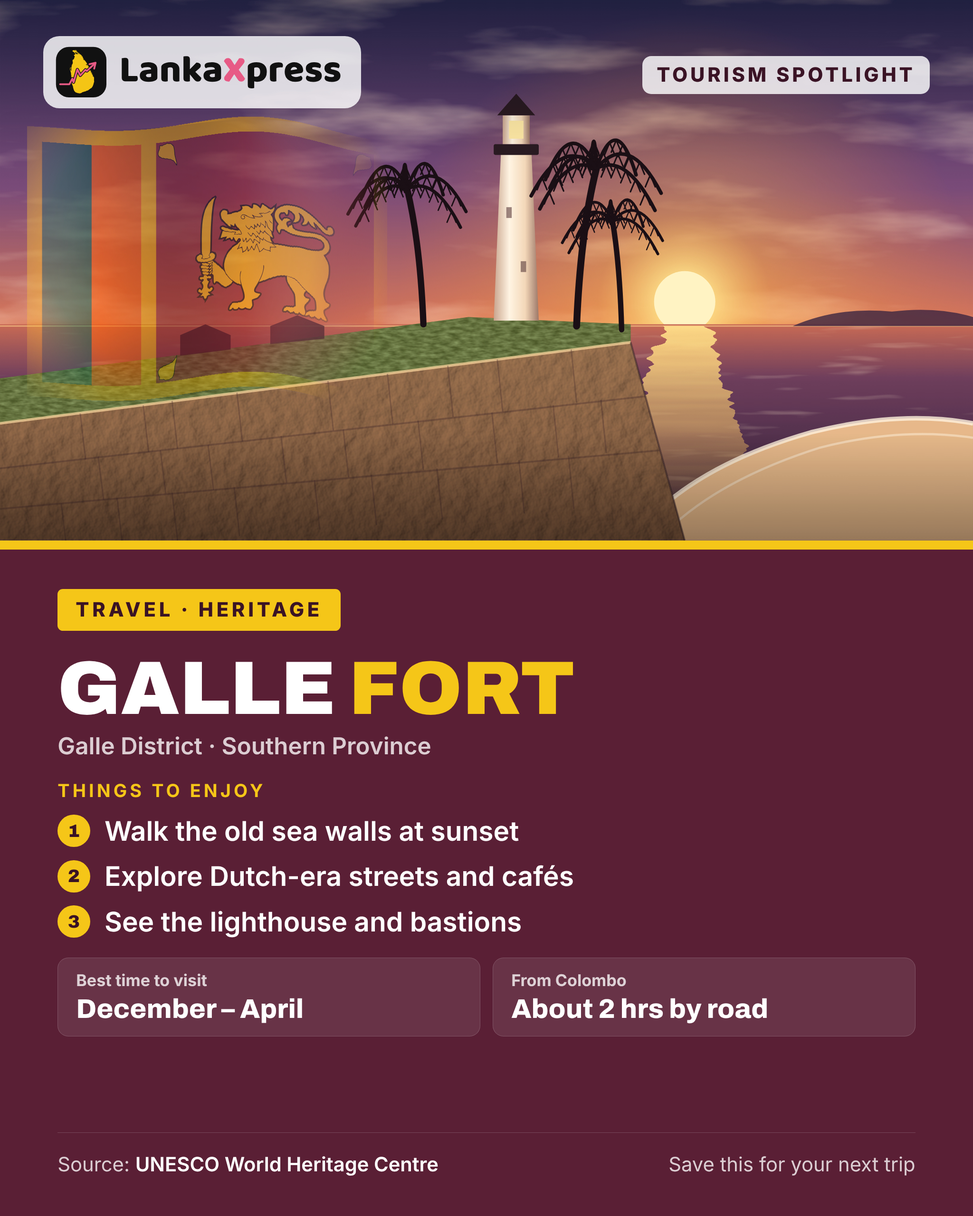
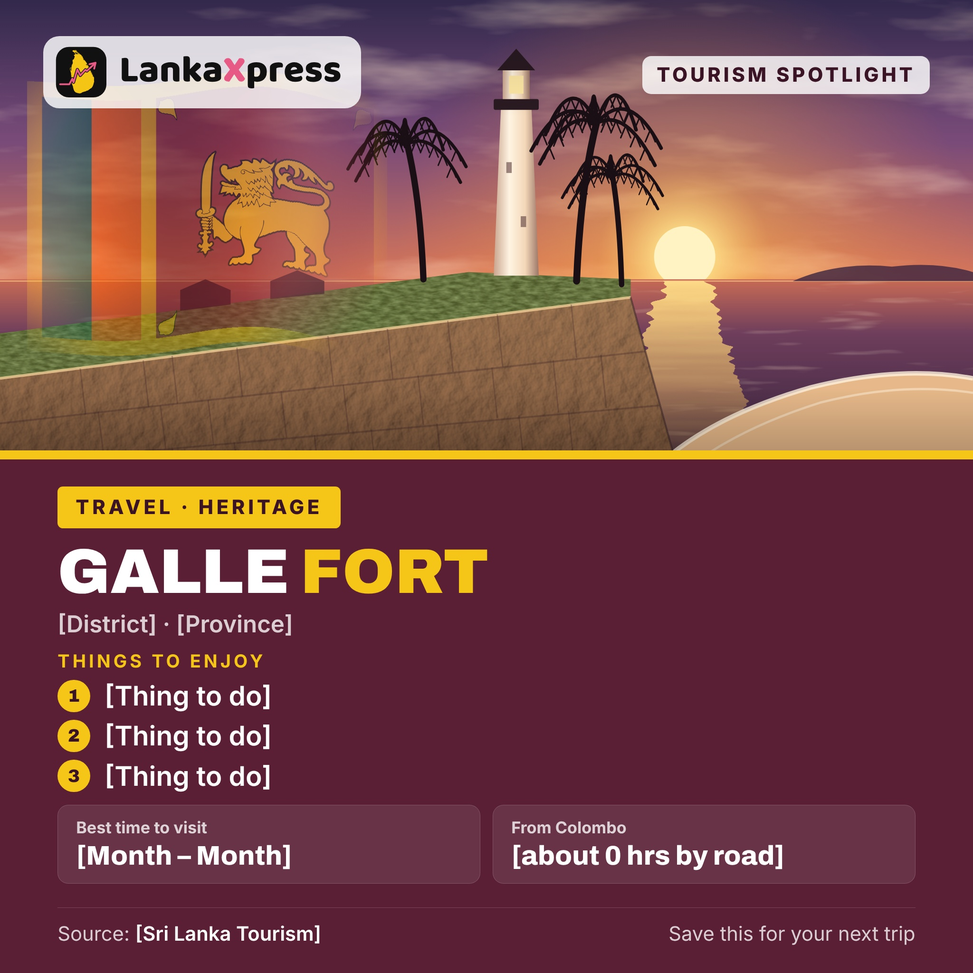
Square 1080x1080 templates: tourism v3 (picture 500px) and US results
Claude-Session: https://claude.ai/code/session_01VaiwC8zkTmVbXbNyuV3YEZ

diff --git a/templates/Card-USResults.html b/templates/Card-USResults.html
@@ -1,7 +1,7 @@
 <!doctype html><html><head><meta charset="utf-8"><style>@font-face{font-family:Archivo;src:url(archivo-latin-800-normal.woff2);font-weight:800}@font-face{font-family:Archivo;src:url(archivo-latin-900-normal.woff2);font-weight:900}body{margin:0}</style></head><body>
-<div style="width:1080px;height:1350px;background:#111111;font-family:Inter,sans-serif;color:#fff;position:relative;overflow:hidden">
-<div style="position:absolute;top:0;left:0;width:1080px;height:720px;overflow:hidden">
-<svg width="1080" height="720" viewBox="0 -160 1080 720" style="position:absolute;top:0;left:0">
+<div style="width:1080px;height:1080px;background:#111111;font-family:Inter,sans-serif;color:#fff;position:relative;overflow:hidden">
+<div style="position:absolute;top:0;left:0;width:1080px;height:500px;overflow:hidden">
+<svg width="1080" height="500" viewBox="0 -160 1080 720" preserveAspectRatio="xMidYMax slice" style="position:absolute;top:0;left:0">
 <defs><linearGradient id="sk" x1="0" y1="0" x2="0" y2="1"><stop offset="0" stop-color="#0B1026"/><stop offset=".6" stop-color="#1B2348"/><stop offset="1" stop-color="#3A2A4A"/></linearGradient>
 <linearGradient id="dm" x1="0" y1="0" x2="1" y2="0"><stop offset="0" stop-color="#EDE3D6"/><stop offset=".5" stop-color="#FFF8EE"/><stop offset="1" stop-color="#BFB3A6"/></linearGradient>
 <linearGradient id="lb" x1="0" y1="0" x2="1" y2="0"><stop offset="0" stop-color="#2563EB" stop-opacity=".75"/><stop offset=".5" stop-color="#2563EB" stop-opacity="0"/></linearGradient>
@@ -24,24 +24,24 @@
 </g>
 <circle cx="240" cy="210" r="260" fill="url(#glw)"/>
 <rect width="1080" height="560" fill="url(#fade)"/></svg>
-<div style="position:absolute;left:50px;top:190px;width:350px;height:350px;border-radius:50%;overflow:hidden;border:10px solid #3B82F6;box-shadow:0 0 0 6px #F5C518,0 0 60px rgba(253,230,138,.8)"><img src="img/jeffries.jpg" style="width:100%;height:100%;object-fit:cover;object-position:50% 18%"></div>
-<div style="position:absolute;left:170px;top:100px;font-family:'Noto Color Emoji';font-size:100px;transform:rotate(-10deg)">👑</div>
-<div style="position:absolute;left:690px;top:210px;width:330px;height:330px;border-radius:50%;overflow:hidden;border:10px solid #B91C1C;filter:grayscale(.55) brightness(.72)"><img src="img/trump.jpg" style="width:100%;height:100%;object-fit:cover;object-position:50% 12%"></div>
-<div style="position:absolute;left:112px;top:530px;background:#F5C518;color:#111;font-family:Archivo,sans-serif;font-weight:900;font-size:28px;letter-spacing:.08em;padding:8px 22px;border-radius:8px;transform:rotate(-3deg);box-shadow:0 6px 18px rgba(0,0,0,.4)">LEADING ✓</div>
-<div style="position:absolute;left:40px;width:370px;top:605px;text-align:center"><div style="font-family:Archivo,sans-serif;font-weight:900;font-size:30px;letter-spacing:.04em">HAKEEM JEFFRIES</div><div style="font-size:19px;color:#93C5FD;margin-top:2px">Democrats · Opposition leader</div></div>
-<div style="position:absolute;left:675px;width:370px;top:605px;text-align:center;opacity:.85"><div style="font-family:Archivo,sans-serif;font-weight:900;font-size:30px;letter-spacing:.04em">DONALD TRUMP</div><div style="font-size:19px;color:#FCA5A5;margin-top:2px">President · Republicans</div></div>
-<div style="position:absolute;left:492px;top:600px;width:96px;height:56px;line-height:56px;text-align:center;background:#111;border:3px solid #F5C518;border-radius:30px;font-family:Archivo,sans-serif;font-weight:900;font-size:30px;color:#F5C518">VS</div>
+<div style="position:absolute;left:80px;top:120px;width:260px;height:260px;border-radius:50%;overflow:hidden;border:10px solid #3B82F6;box-shadow:0 0 0 6px #F5C518,0 0 60px rgba(253,230,138,.8)"><img src="img/jeffries.jpg" style="width:100%;height:100%;object-fit:cover;object-position:50% 18%"></div>
+<div style="position:absolute;left:282px;top:92px;font-family:'Noto Color Emoji';font-size:66px;transform:rotate(22deg)">👑</div>
+<div style="position:absolute;left:750px;top:130px;width:240px;height:240px;border-radius:50%;overflow:hidden;border:10px solid #B91C1C;filter:grayscale(.55) brightness(.72)"><img src="img/trump.jpg" style="width:100%;height:100%;object-fit:cover;object-position:50% 12%"></div>
+<div style="position:absolute;left:100px;top:355px;font-size:24px !important;background:#F5C518;color:#111;font-family:Archivo,sans-serif;font-weight:900;font-size:28px;letter-spacing:.08em;padding:8px 22px;border-radius:8px;transform:rotate(-3deg);box-shadow:0 6px 18px rgba(0,0,0,.4)">LEADING ✓</div>
+<div style="position:absolute;left:25px;width:370px;top:408px;text-align:center"><div style="font-family:Archivo,sans-serif;font-weight:900;font-size:26px;letter-spacing:.04em">HAKEEM JEFFRIES</div><div style="font-size:19px;color:#93C5FD;margin-top:2px">Democrats · Opposition leader</div></div>
+<div style="position:absolute;left:685px;width:370px;top:408px;text-align:center;opacity:.85"><div style="font-family:Archivo,sans-serif;font-weight:900;font-size:26px;letter-spacing:.04em">DONALD TRUMP</div><div style="font-size:19px;color:#FCA5A5;margin-top:2px">President · Republicans</div></div>
+<div style="position:absolute;left:492px;top:395px;width:96px;height:56px;line-height:56px;text-align:center;background:#111;border:3px solid #F5C518;border-radius:30px;font-family:Archivo,sans-serif;font-weight:900;font-size:30px;color:#F5C518">VS</div>
 </div>
 <div style="position:absolute;top:44px;left:56px;right:56px;display:flex;justify-content:space-between;align-items:center"><div style="display:flex;align-items:center;gap:14px"><svg width="60" height="60" viewBox="0 0 300 300" aria-hidden="true"><rect x="10" y="10" width="280" height="280" rx="72" fill="#1C1C1C"></rect><defs><filter id="lxhd" filterUnits="userSpaceOnUse" x="-100" y="-100" width="500" height="500"><feTurbulence type="fractalNoise" baseFrequency="0.05" numOctaves="3" seed="5"></feTurbulence><feDisplacementMap in="SourceGraphic" scale="5"></feDisplacementMap></filter></defs><g filter="url(#lxhd)"><g transform="translate(74.8,27.6) scale(0.803)"><path d="M182.432,210.533L182.432,211.827L183.253,214.545L183.527,216.099L182.979,219.205L179.419,231.367L179.145,232.531L179.145,234.213L178.871,235.636L177.776,237.706L177.502,238.74L177.228,240.034L175.585,242.362L175.037,243.396L175.585,245.207L174.764,247.535L167.643,258.783L165.178,261.239L160.797,264.341L159.154,264.858L157.237,265.892L143.27,277.006L140.531,278.428L131.22,281.787L131.22,280.624L130.672,280.107L130.398,280.237L129.851,280.366L129.577,280.883L129.577,282.175L129.029,282.691L128.481,282.821L127.66,283.208L126.017,284.242L124.373,285.017L116.432,286.696L112.598,287.988L108.216,288.763L106.299,289.538L105.203,291.088L103.286,290.701L101.917,291.217L101.095,291.476L98.357,293.672L95.344,295.867L93.975,297.417L90.963,297.288L89.593,297.417L88.498,297.805L87.402,298.45L85.759,299.742L85.212,299.871L84.664,300L83.295,299.483L81.925,298.838L81.104,298.579L80.556,298.45L76.174,298.967L75.079,298.709L74.257,298.063L73.983,297.288L73.71,296.771L73.436,296.384L72.066,297.159L70.971,297.288L68.78,296.9L68.506,296.9L67.958,296.771L67.685,296.384L67.411,295.996L66.863,295.867L66.589,295.996L66.315,296.255L66.041,296.384L65.494,296.384L65.494,296.255L65.22,296.255L64.946,295.48L64.672,295.351L64.398,295.351L63.851,295.092L60.838,293.93L59.469,293.672L58.373,293.542L56.73,292.122L56.456,291.992L55.635,291.605L55.087,292.251L53.718,291.088L47.419,284.5L46.871,284.113L46.871,283.983L46.871,283.725L46.597,283.467L46.597,282.821L46.597,282.433L46.324,282.175L45.502,281.27L41.942,273.776L41.942,273.13L41.942,272.484L41.942,271.838L41.942,271.45L41.12,270.157L40.573,266.539L39.203,264.083L38.382,260.464L37.834,259.171L37.834,259.042L37.56,258.783L37.012,258.525L37.012,258.137L37.012,257.62L37.286,257.49L37.834,257.62L37.286,253.482L37.286,253.224L35.643,249.086L29.071,232.402L28.249,226.58L27.975,226.063L27.975,220.499L28.249,220.369L28.797,218.558L29.071,217.652L29.071,216.746L25.51,203.801L26.058,201.859L25.784,203.025L26.332,203.801L26.606,204.319L26.88,204.967L27.701,207.556L27.975,208.203L28.523,208.203L28.523,207.426L28.797,207.167L29.071,207.167L29.071,204.837L28.797,203.801L28.523,202.895L28.249,202.636L27.153,202.507L26.606,202.118L26.606,201.989L26.332,201.471L26.606,200.953L26.88,200.306L26.88,199.788L23.319,172.456L22.772,171.419L23.046,171.03L23.319,171.03L23.867,171.419L23.867,170.123L24.415,168.568L24.415,167.79L24.689,167.013L24.141,165.846L23.593,164.809L23.319,164.161L23.319,163.384L23.319,160.661L21.676,151.975L21.402,151.067L20.581,149.122L19.759,145.101L18.39,141.989L16.473,133.297L16.473,130.832L16.747,131.091L17.021,131.091L17.021,131.351L17.295,129.923L17.021,125.381L16.473,124.083L17.842,123.305L18.938,121.747L19.759,119.93L20.307,118.502L20.581,117.594L22.772,113.959L22.772,114.088L21.676,116.685L20.307,119.281L20.581,119.93L20.581,120.06L21.129,120.579L21.95,120.968L22.772,120.968L21.95,123.045L21.402,124.603L20.855,124.862L20.581,124.862L20.307,125.122L20.307,125.9L20.307,127.717L20.307,128.236L18.938,132.389L18.938,133.167L18.938,134.724L20.307,136.281L20.855,136.67L19.212,139.913L21.676,141.599L25.236,141.989L26.88,140.691L26.606,139.265L26.058,138.227L25.784,137.838L25.51,137.448L24.963,136.67L24.141,136.151L23.867,135.243L26.332,130.442L26.332,129.534L26.058,128.885L25.784,128.366L25.51,127.717L25.236,126.809L25.51,125.251L25.51,124.603L25.51,124.473L25.236,123.824L24.963,123.694L24.963,123.564L24.689,123.305L24.963,122.396L25.236,121.747L26.332,120.449L26.332,119.541L26.606,117.983L27.427,114.737L27.975,107.207L28.523,106.428L29.071,105.908L29.344,105.389L29.618,104.35L29.618,101.103L29.892,99.544L30.988,98.505L32.357,97.726L33.178,96.686L33.452,96.297L34.274,93.828L34.274,93.698L34.548,93.049L35.095,91.49L35.917,83.953L34,79.274L34.274,78.364L34.274,72.904L34,71.084L34,70.174L33.452,69.524L33.178,68.743L34,68.353L34.822,68.093L35.643,67.963L40.025,63.932L42.216,62.761L43.311,61.981L43.859,60.03L44.68,58.209L45.228,55.477L47.693,49.102L47.693,48.711L47.967,47.8L48.515,45.979L48.515,41.554L48.515,40.773L48.515,40.382L47.693,40.252L45.502,39.08L44.68,38.299L44.133,36.867L44.133,36.607L43.585,34.784L43.585,33.873L44.68,32.831L46.324,32.05L48.241,31.399L49.61,31.139L50.432,30.878L52.075,28.534L52.075,28.404L52.349,28.274L53.17,27.883L53.718,27.623L54.539,27.493L53.992,26.19L53.444,25.539L52.896,25.018L51.801,23.846L50.432,22.804L44.68,19.417L43.585,17.984L46.05,18.114L48.515,19.026L52.896,21.762L57.278,22.804L58.647,23.585L60.29,25.148L60.838,25.93L59.743,26.451L60.017,26.972L60.29,27.493L59.743,28.013L61.386,29.055L65.22,28.144L72.066,25.409L73.983,25.669L78.091,26.711L82.747,28.925L86.307,29.576L81.104,26.06L79.461,25.148L77.817,24.888L77.544,24.758L77.27,24.627L75.9,23.585L75.353,23.325L75.079,23.195L74.257,23.195L73.436,23.325L72.888,23.455L72.614,23.585L72.614,23.976L72.34,24.106L71.245,23.325L70.971,23.195L68.232,23.325L67.685,23.064L62.207,18.375L60.017,16.942L59.195,16.551L55.087,14.857L53.718,13.945L52.896,13.945L52.896,15.9L53.444,16.421L54.266,17.072L54.813,17.854L54.266,18.766L53.718,18.896L53.17,18.636L52.622,18.245L51.253,17.463L48.515,14.988L46.871,14.336L47.693,15.248L49.062,16.551L49.884,17.463L47.967,17.072L46.324,16.291L42.49,14.336L39.751,11.991L37.834,11.339L37.834,11.209L37.012,10.818L36.465,10.557L36.465,11.079L35.643,10.557L35.369,9.776L35.095,8.863L34.822,7.951L34.274,7.039L34,6.648L33.178,5.605L32.631,4.693L34.274,3.911L37.286,1.173L38.656,0.521L44.68,1.043L47.693,0.652L48.788,0.782L49.336,1.825L49.336,3.52L49.61,4.041L50.158,4.302L50.705,4.302L52.622,4.823L52.896,5.084L53.444,5.735L54.266,5.735L54.813,5.475L55.087,5.344L55.361,5.344L55.635,5.344L56.183,5.605L56.456,5.866L58.647,8.081L65.494,15.509L67.685,16.942L73.162,19.547L73.436,19.547L73.436,19.026L70.697,17.593L63.851,12.121L58.373,5.735L55.635,4.302L51.253,3.259L50.158,2.346L49.884,1.173L51.527,0.521L52.075,0.391L53.718,0.13L57.004,0L58.373,0.261L59.469,1.043L60.017,3.52L60.838,4.562L70.697,16.421L72.34,17.463L75.353,19.157L96.166,36.216L96.44,36.347L96.988,37.258L97.809,38.43L99.452,39.861L100.274,41.293L99.452,41.814L98.905,41.554L98.905,41.423L98.083,40.512L97.535,40.252L96.166,39.992L95.618,40.122L95.892,40.773L96.166,41.033L100,44.677L101.643,45.588L100.822,44.547L100.548,43.636L100.822,43.115L101.917,42.855L102.191,43.115L103.012,45.588L103.834,47.02L106.846,52.745L106.025,52.615L104.656,51.964L103.56,51.964L103.012,53.005L103.56,53.395L104.929,53.526L106.025,54.306L106.299,55.997L106.846,55.997L106.846,55.607L107.12,55.347L107.394,55.217L107.942,54.957L108.216,56.518L108.216,56.778L109.311,59.249L110.681,61.461L112.324,62.371L112.324,62.501L112.598,62.631L112.598,63.151L112.05,63.672L111.502,63.932L111.228,63.672L110.407,62.371L109.585,61.851L107.394,61.331L106.299,60.81L106.846,61.591L107.12,61.981L109.859,64.582L109.859,66.013L110.681,66.663L109.859,67.443L109.311,68.353L110.407,69.263L111.776,69.133L112.871,68.223L113.419,66.793L113.967,65.492L116.705,68.873L119.17,73.034L120.266,74.074L121.635,74.464L122.73,75.374L124.373,79.404L124.921,79.794L125.195,80.314L127.112,81.094L127.934,83.173L129.029,87.202L129.303,86.422L129.577,86.162L129.851,86.292L130.672,86.682L130.398,87.332L132.589,89.671L133.411,90.84L133.411,92.269L132.863,92.789L132.042,93.179L131.22,93.958L131.768,93.828L132.315,93.698L132.589,93.568L132.863,93.439L134.506,97.076L134.78,98.895L132.863,99.284L133.137,97.985L132.589,97.076L131.768,96.816L131.22,98.245L131.494,99.284L132.042,99.934L132.315,100.713L131.768,101.882L131.22,101.622L130.398,100.973L129.029,100.064L127.66,99.804L126.564,100.323L125.469,101.622L125.743,102.402L127.112,102.142L128.755,100.843L129.851,102.012L130.672,103.441L131.768,104.609L133.685,105.129L136.971,104.999L138.34,104.22L137.519,102.402L139.436,101.492L140.257,101.233L141.079,101.362L141.9,101.882L142.996,102.791L143.544,103.83L144.091,106.947L145.187,110.842L145.187,111.881L145.187,112.92L144.365,112.271L143.27,110.193L142.448,109.804L142.448,110.323L142.722,112.79L142.722,113.05L143.27,113.959L143.817,114.218L144.091,114.478L145.187,114.478L146.008,114.867L146.556,117.723L147.104,119.8L147.104,120.19L147.378,121.358L147.651,122.137L149.295,127.587L149.842,131.091L148.473,133.037L147.651,129.793L147.651,129.404L146.282,126.16L145.734,126.16L145.734,128.626L145.734,129.404L145.734,129.534L145.734,129.923L145.734,130.442L146.008,130.702L146.83,130.961L146.83,131.091L147.378,132.778L148.747,133.686L150.116,133.686L150.664,131.999L150.938,131.999L151.485,132.908L151.759,133.167L152.307,135.892L152.855,136.929L153.676,137.838L154.224,138.746L155.32,140.951L155.593,140.562L156.141,140.173L156.415,139.913L156.689,140.562L156.415,140.951L156.415,141.21L156.689,141.47L156.689,141.599L156.689,141.989L157.237,141.599L158.058,141.21L158.332,140.951L158.606,141.34L158.606,141.859L158.606,142.507L158.332,143.156L158.332,143.675L158.332,144.064L158.88,145.101L159.701,145.88L160.523,146.269L161.071,147.306L160.523,147.306L160.523,147.436L160.249,147.566L159.975,147.695L159.701,148.603L159.427,149.381L160.249,151.975L160.797,152.623L161.892,153.79L163.535,153.531L164.083,153.531L164.631,155.087L165.178,156.124L165.452,156.383L168.739,159.884L169.834,161.569L169.834,162.995L168.191,163.513L167.369,162.995L165.726,160.661L164.631,159.754L163.261,159.365L162.44,159.365L161.618,160.272L161.071,161.958L161.892,162.347L162.714,162.476L163.535,162.217L164.083,161.439L164.905,161.698L165.726,162.087L166,162.476L166.274,162.735L166.274,163.513L167.095,164.55L168.191,165.457L169.012,166.365L169.834,167.79L169.286,168.179L169.286,168.568L169.56,169.216L169.834,169.864L170.382,169.346L170.108,168.309L170.929,168.568L172.573,169.864L173.12,170.512L174.49,174.011L174.49,174.27L173.942,176.214L173.942,176.343L173.942,176.473L174.49,177.121L174.49,177.509L174.216,178.028L173.668,178.416L173.394,178.935L173.668,179.582L173.942,180.101L174.216,180.489L174.49,180.878L175.037,181.396L174.216,182.044L174.216,182.303L174.216,182.562L175.037,182.692L175.585,181.914L176.133,181.914L176.681,185.023L176.681,186.189L177.228,186.189L177.228,185.023L177.502,183.987L177.776,183.08L178.05,182.433L178.05,181.914L178.05,181.785L178.05,181.267L178.05,181.137L178.598,181.267L179.145,181.914L179.419,182.562L179.693,184.117L180.788,186.06L182.705,192.536Z" fill="#F5C518"></path></g></g><g fill="none" stroke-linecap="round" stroke-linejoin="round"><path d="M33.0 217.2 L84.2 217.2 L100.8 186.3 L107.7 206.4 L128.9 135.1 L145.0 168.2 L173.7 136.8 L181.8 143.6 L228.6 99.4" stroke="#111111" stroke-width="17"></path><path d="M196.2 105.9 L229.9 97.9 L222.2 130.5" stroke="#111111" stroke-width="17"></path><path d="M33.0 217.2 L84.2 217.2 L100.8 186.3 L107.7 206.4 L128.9 135.1 L145.0 168.2 L173.7 136.8 L181.8 143.6 L228.6 99.4" stroke="#E85A86" stroke-width="10"></path><path d="M196.2 105.9 L229.9 97.9 L222.2 130.5" stroke="#E85A86" stroke-width="10"></path></g></svg>
-<svg width="245" height="37" viewBox="40 400 5820 880" aria-label="LankaXpress"><path d="M158 1081Q115 1081 90.0 1056.0Q65 1031 65 988V470Q77 468 100.5 464.5Q124 461 146 461Q196 461 218.0 478.0Q240 495 240 544V940H469Q476 951 482.0 969.0Q488 987 488 1008Q488 1045 472.0 1063.0Q456 1081 428 1081ZM773 970Q790 970 810.5 966.5Q831 963 841 957V877L769 883Q741 885 723.0 895.0Q705 905 705 925Q705 945 720.5 957.5Q736 970 773 970ZM765 577Q874 577 939.5 621.5Q1005 666 1005 760V984Q1005 1010 990.5 1026.5Q976 1043 956 1055Q924 1074 878.0 1084.0Q832 1094 773 1094Q668 1094 604.5 1053.5Q541 1013 541 931Q541 862 582.5 825.0Q624 788 709 779L840 765V758Q840 729 814.5 716.5Q789 704 741 704Q704 704 667.5 712.0Q631 720 602 732Q589 723 580.0 704.5Q571 686 571 666Q571 618 622 598Q651 587 690.5 582.0Q730 577 765 577ZM1587 765V1077Q1576 1080 1555.5 1083.0Q1535 1086 1511 1086Q1462 1086 1439.5 1069.0Q1417 1052 1417 1006V770Q1417 739 1398.5 724.5Q1380 710 1350 710Q1330 710 1312.5 715.0Q1295 720 1279 728V1077Q1268 1080 1247.5 1083.0Q1227 1086 1203 1086Q1154 1086 1131.5 1069.0Q1109 1052 1109 1006V705Q1109 678 1120.5 661.0Q1132 644 1152 630Q1186 606 1238.0 591.5Q1290 577 1352 577Q1465 577 1526.0 626.5Q1587 676 1587 765ZM1694 814V426Q1705 423 1725.5 420.0Q1746 417 1770 417Q1820 417 1842.0 433.5Q1864 450 1864 497V761L2036 585Q2088 585 2119.5 608.0Q2151 631 2151 666Q2151 696 2130.0 719.0Q2109 742 2065 780L2007 830L2167 990Q2163 1036 2140.0 1061.5Q2117 1087 2074 1087Q2043 1087 2017.5 1071.5Q1992 1056 1963 1019L1864 895V1077Q1853 1080 1832.5 1083.0Q1812 1086 1788 1086Q1739 1086 1716.5 1069.0Q1694 1052 1694 1006ZM2455 970Q2472 970 2492.5 966.5Q2513 963 2523 957V877L2451 883Q2423 885 2405.0 895.0Q2387 905 2387 925Q2387 945 2402.5 957.5Q2418 970 2455 970ZM2447 577Q2556 577 2621.5 621.5Q2687 666 2687 760V984Q2687 1010 2672.5 1026.5Q2658 1043 2638 1055Q2606 1074 2560.0 1084.0Q2514 1094 2455 1094Q2350 1094 2286.5 1053.5Q2223 1013 2223 931Q2223 862 2264.5 825.0Q2306 788 2391 779L2522 765V758Q2522 729 2496.5 716.5Q2471 704 2423 704Q2386 704 2349.5 712.0Q2313 720 2284 732Q2271 723 2262.0 704.5Q2253 686 2253 666Q2253 618 2304 598Q2333 587 2372.5 582.0Q2412 577 2447 577Z" fill="#FFFFFF"></path><path d="M3035 892 2908 1084Q2901 1085 2893.5 1085.5Q2886 1086 2879 1086Q2823 1086 2795.5 1063.0Q2768 1040 2768 1006Q2768 977 2781.0 955.5Q2794 934 2816 905L2921 771L2762 546Q2772 518 2799.0 492.0Q2826 466 2870 466Q2899 466 2921.5 480.5Q2944 495 2966 530L3044 650L3160 476Q3168 473 3182.0 470.5Q3196 468 3211 468Q3255 468 3281.0 490.0Q3307 512 3307 544Q3307 572 3292.5 594.0Q3278 616 3253 647Q3219 690 3185 732Q3169 752 3153 772L3319 1006Q3312 1043 3284.5 1064.5Q3257 1086 3213 1086Q3185 1086 3164.0 1071.5Q3143 1057 3120 1022Z" fill="#E85A86"></path><path d="M3643 1093Q3715 1093 3771.5 1063.0Q3828 1033 3861.0 975.0Q3894 917 3894 832Q3894 743 3860.0 686.5Q3826 630 3765.0 603.5Q3704 577 3623 577Q3564 577 3515.0 589.5Q3466 602 3435 622Q3415 635 3403.5 653.0Q3392 671 3392 698V1185Q3392 1231 3414.5 1248.0Q3437 1265 3486 1265Q3510 1265 3530.5 1262.0Q3551 1259 3562 1256V1079Q3571 1082 3580 1085Q3607 1093 3643 1093ZM3561 945V725Q3572 719 3588.0 714.5Q3604 710 3623 710Q3655 710 3676.5 723.0Q3698 736 3709.0 762.5Q3720 789 3720 832Q3720 894 3693.5 926.5Q3667 959 3617 959Q3589 959 3567 948Q3564 946 3561 945ZM4147 735V1077Q4136 1080 4115.5 1083.0Q4095 1086 4071 1086Q4022 1086 3999.5 1069.0Q3977 1052 3977 1006V709Q3977 680 3992.5 658.5Q4008 637 4033 621Q4068 600 4115.0 589.0Q4162 578 4212 578Q4321 578 4321 655Q4321 673 4316.0 688.5Q4311 704 4304 715Q4294 713 4280.0 712.0Q4266 711 4249 711Q4224 711 4196.0 717.0Q4168 723 4147 735ZM4535 901Q4547 934 4576 949Q4611 967 4655 967Q4697 967 4735.0 956.0Q4773 945 4796 932Q4812 942 4823.0 960.0Q4834 978 4834 998Q4834 1031 4809.5 1052.5Q4785 1074 4742.0 1084.0Q4699 1094 4643 1094Q4565 1094 4502.5 1064.5Q4440 1035 4403.5 976.0Q4367 917 4367 828Q4367 762 4388.5 714.0Q4410 666 4446.0 636.0Q4482 606 4526.5 591.5Q4571 577 4618 577Q4689 577 4742.0 604.5Q4795 632 4825.0 679.5Q4855 727 4855 789Q4855 823 4836.0 841.0Q4817 859 4783 864ZM4525 789 4695 761Q4693 741 4675.0 721.0Q4657 701 4619 701Q4579 701 4553 727Q4529 750 4525 789ZM5347 933Q5347 1009 5289.5 1052.0Q5232 1095 5122 1095Q5037 1095 4982.5 1070.5Q4928 1046 4928 994Q4928 970 4938.0 953.0Q4948 936 4962 926Q4991 942 5028.5 954.5Q5066 967 5115 967Q5179 967 5179 934Q5179 920 5167.0 912.0Q5155 904 5127 899L5097 893Q5011 876 4968.0 839.0Q4925 802 4925 735Q4925 660 4986.0 618.0Q5047 576 5145 576Q5194 576 5234.5 585.5Q5275 595 5299.0 615.5Q5323 636 5323 668Q5323 690 5314.5 707.0Q5306 724 5293 735Q5282 728 5258.5 721.0Q5235 714 5208.0 709.0Q5181 704 5160 704Q5127 704 5109.0 711.5Q5091 719 5091 735Q5091 746 5101.0 753.0Q5111 760 5139 766L5170 773Q5266 795 5306.5 833.5Q5347 872 5347 933ZM5839 933Q5839 1009 5781.5 1052.0Q5724 1095 5614 1095Q5529 1095 5474.5 1070.5Q5420 1046 5420 994Q5420 970 5430.0 953.0Q5440 936 5454 926Q5483 942 5520.5 954.5Q5558 967 5607 967Q5671 967 5671 934Q5671 920 5659.0 912.0Q5647 904 5619 899L5589 893Q5503 876 5460.0 839.0Q5417 802 5417 735Q5417 660 5478.0 618.0Q5539 576 5637 576Q5686 576 5726.5 585.5Q5767 595 5791.0 615.5Q5815 636 5815 668Q5815 690 5806.5 707.0Q5798 724 5785 735Q5774 728 5750.5 721.0Q5727 714 5700.0 709.0Q5673 704 5652 704Q5619 704 5601.0 711.5Q5583 719 5583 735Q5583 746 5593.0 753.0Q5603 760 5631 766L5662 773Q5758 795 5798.5 833.5Q5839 872 5839 933Z" fill="#FFFFFF"></path></svg></div><span style="display:flex;align-items:center;gap:10px;background:#C62828;font-size:20px;font-weight:800;letter-spacing:.16em;padding:8px 16px;border-radius:6px"><span style="width:12px;height:12px;border-radius:50%;background:#fff"></span>LIVE</span></div><div style="position:absolute;top:720px;left:0;right:0;height:8px;background:#F5C518"></div>
-<div style="position:absolute;top:728px;left:0;right:0;bottom:0;box-sizing:border-box;padding:30px 60px 34px;display:flex;flex-direction:column;gap:16px">
+<svg width="245" height="37" viewBox="40 400 5820 880" aria-label="LankaXpress"><path d="M158 1081Q115 1081 90.0 1056.0Q65 1031 65 988V470Q77 468 100.5 464.5Q124 461 146 461Q196 461 218.0 478.0Q240 495 240 544V940H469Q476 951 482.0 969.0Q488 987 488 1008Q488 1045 472.0 1063.0Q456 1081 428 1081ZM773 970Q790 970 810.5 966.5Q831 963 841 957V877L769 883Q741 885 723.0 895.0Q705 905 705 925Q705 945 720.5 957.5Q736 970 773 970ZM765 577Q874 577 939.5 621.5Q1005 666 1005 760V984Q1005 1010 990.5 1026.5Q976 1043 956 1055Q924 1074 878.0 1084.0Q832 1094 773 1094Q668 1094 604.5 1053.5Q541 1013 541 931Q541 862 582.5 825.0Q624 788 709 779L840 765V758Q840 729 814.5 716.5Q789 704 741 704Q704 704 667.5 712.0Q631 720 602 732Q589 723 580.0 704.5Q571 686 571 666Q571 618 622 598Q651 587 690.5 582.0Q730 577 765 577ZM1587 765V1077Q1576 1080 1555.5 1083.0Q1535 1086 1511 1086Q1462 1086 1439.5 1069.0Q1417 1052 1417 1006V770Q1417 739 1398.5 724.5Q1380 710 1350 710Q1330 710 1312.5 715.0Q1295 720 1279 728V1077Q1268 1080 1247.5 1083.0Q1227 1086 1203 1086Q1154 1086 1131.5 1069.0Q1109 1052 1109 1006V705Q1109 678 1120.5 661.0Q1132 644 1152 630Q1186 606 1238.0 591.5Q1290 577 1352 577Q1465 577 1526.0 626.5Q1587 676 1587 765ZM1694 814V426Q1705 423 1725.5 420.0Q1746 417 1770 417Q1820 417 1842.0 433.5Q1864 450 1864 497V761L2036 585Q2088 585 2119.5 608.0Q2151 631 2151 666Q2151 696 2130.0 719.0Q2109 742 2065 780L2007 830L2167 990Q2163 1036 2140.0 1061.5Q2117 1087 2074 1087Q2043 1087 2017.5 1071.5Q1992 1056 1963 1019L1864 895V1077Q1853 1080 1832.5 1083.0Q1812 1086 1788 1086Q1739 1086 1716.5 1069.0Q1694 1052 1694 1006ZM2455 970Q2472 970 2492.5 966.5Q2513 963 2523 957V877L2451 883Q2423 885 2405.0 895.0Q2387 905 2387 925Q2387 945 2402.5 957.5Q2418 970 2455 970ZM2447 577Q2556 577 2621.5 621.5Q2687 666 2687 760V984Q2687 1010 2672.5 1026.5Q2658 1043 2638 1055Q2606 1074 2560.0 1084.0Q2514 1094 2455 1094Q2350 1094 2286.5 1053.5Q2223 1013 2223 931Q2223 862 2264.5 825.0Q2306 788 2391 779L2522 765V758Q2522 729 2496.5 716.5Q2471 704 2423 704Q2386 704 2349.5 712.0Q2313 720 2284 732Q2271 723 2262.0 704.5Q2253 686 2253 666Q2253 618 2304 598Q2333 587 2372.5 582.0Q2412 577 2447 577Z" fill="#FFFFFF"></path><path d="M3035 892 2908 1084Q2901 1085 2893.5 1085.5Q2886 1086 2879 1086Q2823 1086 2795.5 1063.0Q2768 1040 2768 1006Q2768 977 2781.0 955.5Q2794 934 2816 905L2921 771L2762 546Q2772 518 2799.0 492.0Q2826 466 2870 466Q2899 466 2921.5 480.5Q2944 495 2966 530L3044 650L3160 476Q3168 473 3182.0 470.5Q3196 468 3211 468Q3255 468 3281.0 490.0Q3307 512 3307 544Q3307 572 3292.5 594.0Q3278 616 3253 647Q3219 690 3185 732Q3169 752 3153 772L3319 1006Q3312 1043 3284.5 1064.5Q3257 1086 3213 1086Q3185 1086 3164.0 1071.5Q3143 1057 3120 1022Z" fill="#E85A86"></path><path d="M3643 1093Q3715 1093 3771.5 1063.0Q3828 1033 3861.0 975.0Q3894 917 3894 832Q3894 743 3860.0 686.5Q3826 630 3765.0 603.5Q3704 577 3623 577Q3564 577 3515.0 589.5Q3466 602 3435 622Q3415 635 3403.5 653.0Q3392 671 3392 698V1185Q3392 1231 3414.5 1248.0Q3437 1265 3486 1265Q3510 1265 3530.5 1262.0Q3551 1259 3562 1256V1079Q3571 1082 3580 1085Q3607 1093 3643 1093ZM3561 945V725Q3572 719 3588.0 714.5Q3604 710 3623 710Q3655 710 3676.5 723.0Q3698 736 3709.0 762.5Q3720 789 3720 832Q3720 894 3693.5 926.5Q3667 959 3617 959Q3589 959 3567 948Q3564 946 3561 945ZM4147 735V1077Q4136 1080 4115.5 1083.0Q4095 1086 4071 1086Q4022 1086 3999.5 1069.0Q3977 1052 3977 1006V709Q3977 680 3992.5 658.5Q4008 637 4033 621Q4068 600 4115.0 589.0Q4162 578 4212 578Q4321 578 4321 655Q4321 673 4316.0 688.5Q4311 704 4304 715Q4294 713 4280.0 712.0Q4266 711 4249 711Q4224 711 4196.0 717.0Q4168 723 4147 735ZM4535 901Q4547 934 4576 949Q4611 967 4655 967Q4697 967 4735.0 956.0Q4773 945 4796 932Q4812 942 4823.0 960.0Q4834 978 4834 998Q4834 1031 4809.5 1052.5Q4785 1074 4742.0 1084.0Q4699 1094 4643 1094Q4565 1094 4502.5 1064.5Q4440 1035 4403.5 976.0Q4367 917 4367 828Q4367 762 4388.5 714.0Q4410 666 4446.0 636.0Q4482 606 4526.5 591.5Q4571 577 4618 577Q4689 577 4742.0 604.5Q4795 632 4825.0 679.5Q4855 727 4855 789Q4855 823 4836.0 841.0Q4817 859 4783 864ZM4525 789 4695 761Q4693 741 4675.0 721.0Q4657 701 4619 701Q4579 701 4553 727Q4529 750 4525 789ZM5347 933Q5347 1009 5289.5 1052.0Q5232 1095 5122 1095Q5037 1095 4982.5 1070.5Q4928 1046 4928 994Q4928 970 4938.0 953.0Q4948 936 4962 926Q4991 942 5028.5 954.5Q5066 967 5115 967Q5179 967 5179 934Q5179 920 5167.0 912.0Q5155 904 5127 899L5097 893Q5011 876 4968.0 839.0Q4925 802 4925 735Q4925 660 4986.0 618.0Q5047 576 5145 576Q5194 576 5234.5 585.5Q5275 595 5299.0 615.5Q5323 636 5323 668Q5323 690 5314.5 707.0Q5306 724 5293 735Q5282 728 5258.5 721.0Q5235 714 5208.0 709.0Q5181 704 5160 704Q5127 704 5109.0 711.5Q5091 719 5091 735Q5091 746 5101.0 753.0Q5111 760 5139 766L5170 773Q5266 795 5306.5 833.5Q5347 872 5347 933ZM5839 933Q5839 1009 5781.5 1052.0Q5724 1095 5614 1095Q5529 1095 5474.5 1070.5Q5420 1046 5420 994Q5420 970 5430.0 953.0Q5440 936 5454 926Q5483 942 5520.5 954.5Q5558 967 5607 967Q5671 967 5671 934Q5671 920 5659.0 912.0Q5647 904 5619 899L5589 893Q5503 876 5460.0 839.0Q5417 802 5417 735Q5417 660 5478.0 618.0Q5539 576 5637 576Q5686 576 5726.5 585.5Q5767 595 5791.0 615.5Q5815 636 5815 668Q5815 690 5806.5 707.0Q5798 724 5785 735Q5774 728 5750.5 721.0Q5727 714 5700.0 709.0Q5673 704 5652 704Q5619 704 5601.0 711.5Q5583 719 5583 735Q5583 746 5593.0 753.0Q5603 760 5631 766L5662 773Q5758 795 5798.5 833.5Q5839 872 5839 933Z" fill="#FFFFFF"></path></svg></div><span style="display:flex;align-items:center;gap:10px;background:#C62828;font-size:20px;font-weight:800;letter-spacing:.16em;padding:8px 16px;border-radius:6px"><span style="width:12px;height:12px;border-radius:50%;background:#fff"></span>LIVE</span></div><div style="position:absolute;top:500px;left:0;right:0;height:8px;background:#F5C518"></div>
+<div style="position:absolute;top:508px;left:0;right:0;bottom:0;box-sizing:border-box;padding:22px 60px 22px;display:flex;flex-direction:column;gap:11px">
 <div style="display:flex;justify-content:space-between;align-items:center"><span style="background:#F5C518;color:#111;font-weight:800;font-size:20px;letter-spacing:.16em;padding:8px 18px;border-radius:6px">US ELECTION RESULTS</span><span style="font-size:20px;font-weight:700;letter-spacing:.08em;color:#CFCFCF">04 NOV · 8:50 AM SL TIME</span></div>
 <h1 style="margin:0;font-family:Archivo,sans-serif;font-weight:900;font-size:58px;line-height:1.02;text-transform:uppercase">Who is winning <span style="color:#F5C518">Congress?</span></h1>
 <div style="font-size:21px;color:#CFCFCF;margin-top:-4px"><b style="color:#EF4444">Republicans</b> = President Donald Trump's party · <b style="color:#3B82F6">Democrats</b> = opposition party</div>
-<div style="background:#1C1C1C;border:1px solid #2E2E2E;border-left:8px solid #E85A86;border-radius:14px;padding:18px 26px;display:flex;flex-direction:column;gap:10px">
+<div style="background:#1C1C1C;border:1px solid #2E2E2E;border-left:8px solid #E85A86;border-radius:14px;padding:14px 26px;display:flex;flex-direction:column;gap:6px">
 <div style="display:flex;justify-content:space-between;align-items:baseline"><span style="font-family:Archivo,sans-serif;font-weight:900;font-size:30px;letter-spacing:.06em;color:#F5C518">HOUSE</span><span style="font-size:20px;color:#CFCFCF">218 needed to control</span></div>
 <div style="display:flex;justify-content:space-between;align-items:baseline"><span style="font-size:26px;color:#FFFFFF">Democrats <b style="font-family:Archivo,sans-serif;font-size:46px">111</b></span><span style="font-size:26px;color:#FFFFFF"><b style="font-family:Archivo,sans-serif;font-size:46px">64</b> Republicans</span></div>
-<div style="display:flex;height:14px;border-radius:7px;overflow:hidden;background:#333"><div style="width:25.5%;background:#3B82F6"></div><div style="flex:1"></div><div style="width:14.7%;background:#EF4444"></div></div></div><div style="background:#1C1C1C;border:1px solid #2E2E2E;border-left:8px solid #E85A86;border-radius:14px;padding:18px 26px;display:flex;flex-direction:column;gap:10px">
+<div style="display:flex;height:14px;border-radius:7px;overflow:hidden;background:#333"><div style="width:25.5%;background:#3B82F6"></div><div style="flex:1"></div><div style="width:14.7%;background:#EF4444"></div></div></div><div style="background:#1C1C1C;border:1px solid #2E2E2E;border-left:8px solid #E85A86;border-radius:14px;padding:14px 26px;display:flex;flex-direction:column;gap:6px">
 <div style="display:flex;justify-content:space-between;align-items:baseline"><span style="font-family:Archivo,sans-serif;font-weight:900;font-size:30px;letter-spacing:.06em;color:#F5C518">SENATE</span><span style="font-size:20px;color:#CFCFCF">51 needed to control</span></div>
 <div style="display:flex;justify-content:space-between;align-items:baseline"><span style="font-size:26px;color:#FFFFFF">Democrats <b style="font-family:Archivo,sans-serif;font-size:46px">45</b></span><span style="font-size:26px;color:#FFFFFF"><b style="font-family:Archivo,sans-serif;font-size:46px">36</b> Republicans</span></div>
 <div style="display:flex;height:14px;border-radius:7px;overflow:hidden;background:#333"><div style="width:45.0%;background:#3B82F6"></div><div style="flex:1"></div><div style="width:36.0%;background:#EF4444"></div></div></div>

diff --git a/templates/Card-Tourism-v3.html b/templates/Card-Tourism-v3.html
@@ -10,10 +10,10 @@ THEME BY PLACE TYPE (replace every {{token}}):
   ocean: bottom=#0B4F55, top=#EEF6F3, ink=#0B3B3F, skyT=#BFE3DD, skyB=#F7E9CC, hillF=#6FA8A0, hillN=#2F6F6B, sea=#1E7F86, wave=#CDEFEA, sand=#F2D49A, palm=#0B3B3F, stupa=#FFFFFF, line=#F5C518
   tea: bottom=#1E4D36, top=#F1F4E8, ink=#173A29, skyT=#D5E8C2, skyB=#FBF0D2, hillF=#8DB574, hillN=#3E7B4B, sea=#5E9C86, wave=#DDF0E2, sand=#E9D29A, palm=#173A29, stupa=#FFFFFF, line=#F5C518
   sunset: bottom=#5A1F35, top=#FCEFE4, ink=#3A1424, skyT=#F4A07E, skyB=#FCE4B6, hillF=#CF7A6E, hillN=#8E3B4B, sea=#6E2A44, wave=#F8BFA2, sand=#F3C98C, palm=#3A1424, stupa=#FFF4E6, line=#F5C518
-  gold=#F5C518 always. DELETE THIS COMMENT FIRST, then replace {{SCENE}} with an original natural-style SVG picture of the place (1080x600 viewBox): sunset/daylight sky gradient, soft clouds (feTurbulence), the place's main landmark with shading/texture, water or hills, dark silhouettes (palms, trees), light vignette. See templates/scenes/galle-fort.svg for the approved example (3 Nov 2026). Keep the logo, the see-through flag (drawn on top of the scene) and the gold line. -->
-<div style="width: 1080px; height: 1350px; display: flex; flex-direction: column; background: {{bottom}}; font-family: Inter, system-ui, sans-serif">
-<div style="height: 600px; position: relative; background: {{top}}; overflow: hidden">
-<svg width="1080" height="600" viewBox="0 0 1080 600" style="position:absolute;left:0;top:0" aria-hidden="true">
+  gold=#F5C518 always. DELETE THIS COMMENT FIRST, then replace {{SCENE}} with an original natural-style SVG picture of the place (1080x600 viewBox; the card shows it 500 px tall, so about 50 px at the top and bottom are cut off – keep important things away from the very top and bottom edges): sunset/daylight sky gradient, soft clouds (feTurbulence), the place's main landmark with shading/texture, water or hills, dark silhouettes (palms, trees), light vignette. See templates/scenes/galle-fort.svg for the approved example (3 Nov 2026). Keep the logo, the see-through flag (drawn on top of the scene) and the gold line. -->
+<div style="width: 1080px; height: 1080px; display: flex; flex-direction: column; background: {{bottom}}; font-family: Inter, system-ui, sans-serif">
+<div style="height: 500px; position: relative; background: {{top}}; overflow: hidden">
+<svg width="1080" height="500" viewBox="0 0 1080 600" preserveAspectRatio="xMidYMid slice" style="position:absolute;left:0;top:0" aria-hidden="true">
 <defs>
 <symbol id="lkflag" viewBox="0 0 640 480">
   <path fill="#ffb700" d="M0 0h640v480H0z"/>
@@ -56,13 +56,13 @@ THEME BY PLACE TYPE (replace every {{token}}):
 
 <div style="height: 10px; background: {{line}}"></div>
 
-<div style="flex-grow: 1; box-sizing: border-box; padding: 44px 64px 44px; display: flex; flex-direction: column; gap: 22px">
+<div style="flex-grow: 1; box-sizing: border-box; padding: 30px 64px 30px; display: flex; flex-direction: column; gap: 14px">
 <span style="align-self: flex-start; background: {{gold}}; color: {{ink}}; font-weight: 800; font-size: 22px; letter-spacing: 0.16em; padding: 10px 20px; border-radius: 6px">TRAVEL · [BEACH]</span>
 <div style="display: flex; flex-direction: column; gap: 6px">
-<h1 style="margin: 0; font-family: Archivo, sans-serif; font-weight: 900; font-size: 84px; line-height: 1; text-transform: uppercase; color: #FFFFFF">[Place <span style="color: {{gold}}">name]</span></h1>
+<h1 style="margin: 0; font-family: Archivo, sans-serif; font-weight: 900; font-size: 70px; line-height: 1; text-transform: uppercase; color: #FFFFFF">[Place <span style="color: {{gold}}">name]</span></h1>
 <span style="font-size: 26px; font-weight: 600; color: rgba(255,255,255,0.78)">[District] · [Province]</span>
 </div>
-<div style="display: flex; flex-direction: column; gap: 14px">
+<div style="display: flex; flex-direction: column; gap: 8px">
 <span style="font-size: 20px; font-weight: 700; letter-spacing: 0.16em; color: {{gold}}">THINGS TO ENJOY</span>
 <div style="display: flex; align-items: center; gap: 16px"><span style="width: 36px; height: 36px; border-radius: 50%; background: {{gold}}; color: {{ink}}; font-family: Archivo, sans-serif; font-weight: 900; font-size: 20px; display: flex; align-items: center; justify-content: center">1</span><span style="font-size: 30px; font-weight: 600; color: #FFFFFF">[Thing to do]</span></div>
 <div style="display: flex; align-items: center; gap: 16px"><span style="width: 36px; height: 36px; border-radius: 50%; background: {{gold}}; color: {{ink}}; font-family: Archivo, sans-serif; font-weight: 900; font-size: 20px; display: flex; align-items: center; justify-content: center">2</span><span style="font-size: 30px; font-weight: 600; color: #FFFFFF">[Thing to do]</span></div>
@@ -72,7 +72,7 @@ THEME BY PLACE TYPE (replace every {{token}}):
 <div style="flex: 1 1 0; display: flex; flex-direction: column; gap: 4px; background: rgba(255,255,255,0.09); border: 1px solid rgba(255,255,255,0.16); border-radius: 12px; padding: 14px 20px"><span style="font-size: 18px; font-weight: 700; color: rgba(255,255,255,0.78)">Best time to visit</span><span style="font-family: Archivo, sans-serif; font-weight: 800; font-size: 30px; color: #FFFFFF">[Month – Month]</span></div>
 <div style="flex: 1 1 0; display: flex; flex-direction: column; gap: 4px; background: rgba(255,255,255,0.09); border: 1px solid rgba(255,255,255,0.16); border-radius: 12px; padding: 14px 20px"><span style="font-size: 18px; font-weight: 700; color: rgba(255,255,255,0.78)">From Colombo</span><span style="font-family: Archivo, sans-serif; font-weight: 800; font-size: 30px; color: #FFFFFF">[about 0 hrs by road]</span></div>
 </div>
-<div style="margin-top: auto; display: flex; justify-content: space-between; align-items: center; border-top: 1px solid rgba(255,255,255,0.18); padding-top: 22px">
+<div style="margin-top: auto; display: flex; justify-content: space-between; align-items: center; border-top: 1px solid rgba(255,255,255,0.18); padding-top: 16px">
 <span style="font-size: 22px; color: rgba(255,255,255,0.78)">Source: <span style="color: #FFFFFF; font-weight: 600">[Sri Lanka Tourism]</span></span>
 <span style="font-size: 22px; color: rgba(255,255,255,0.78)">Save this for your next trip</span>
 </div>
